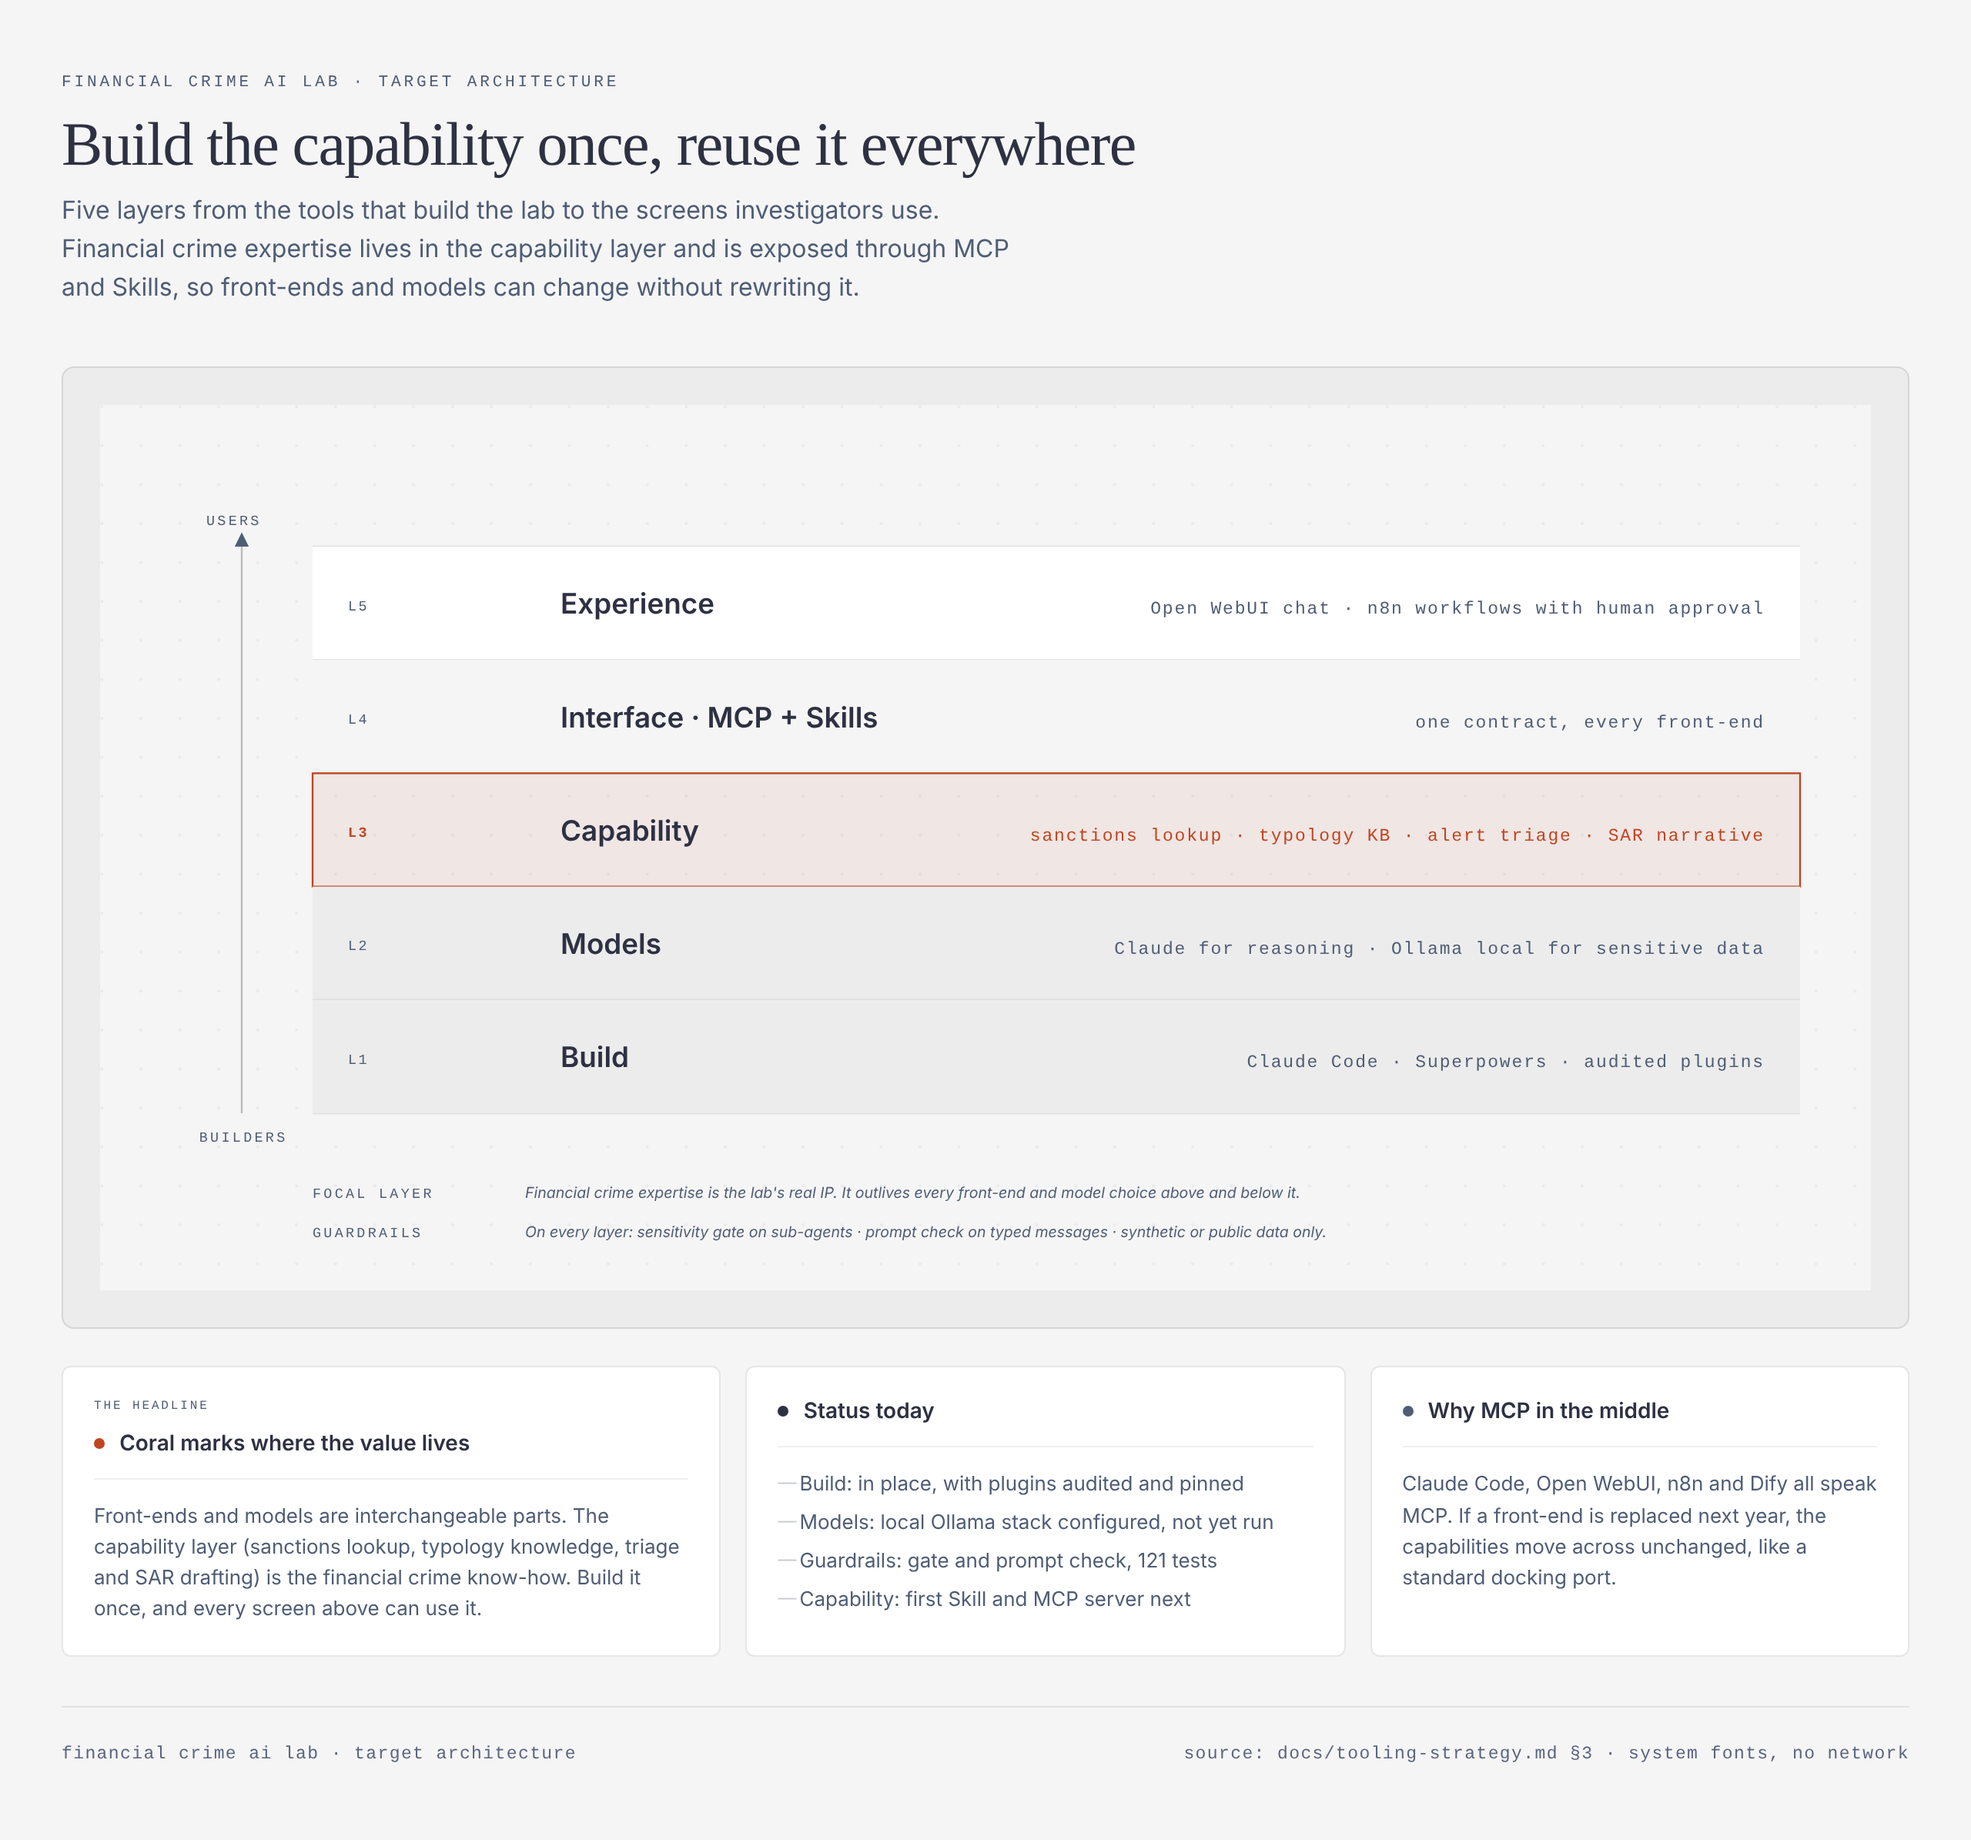
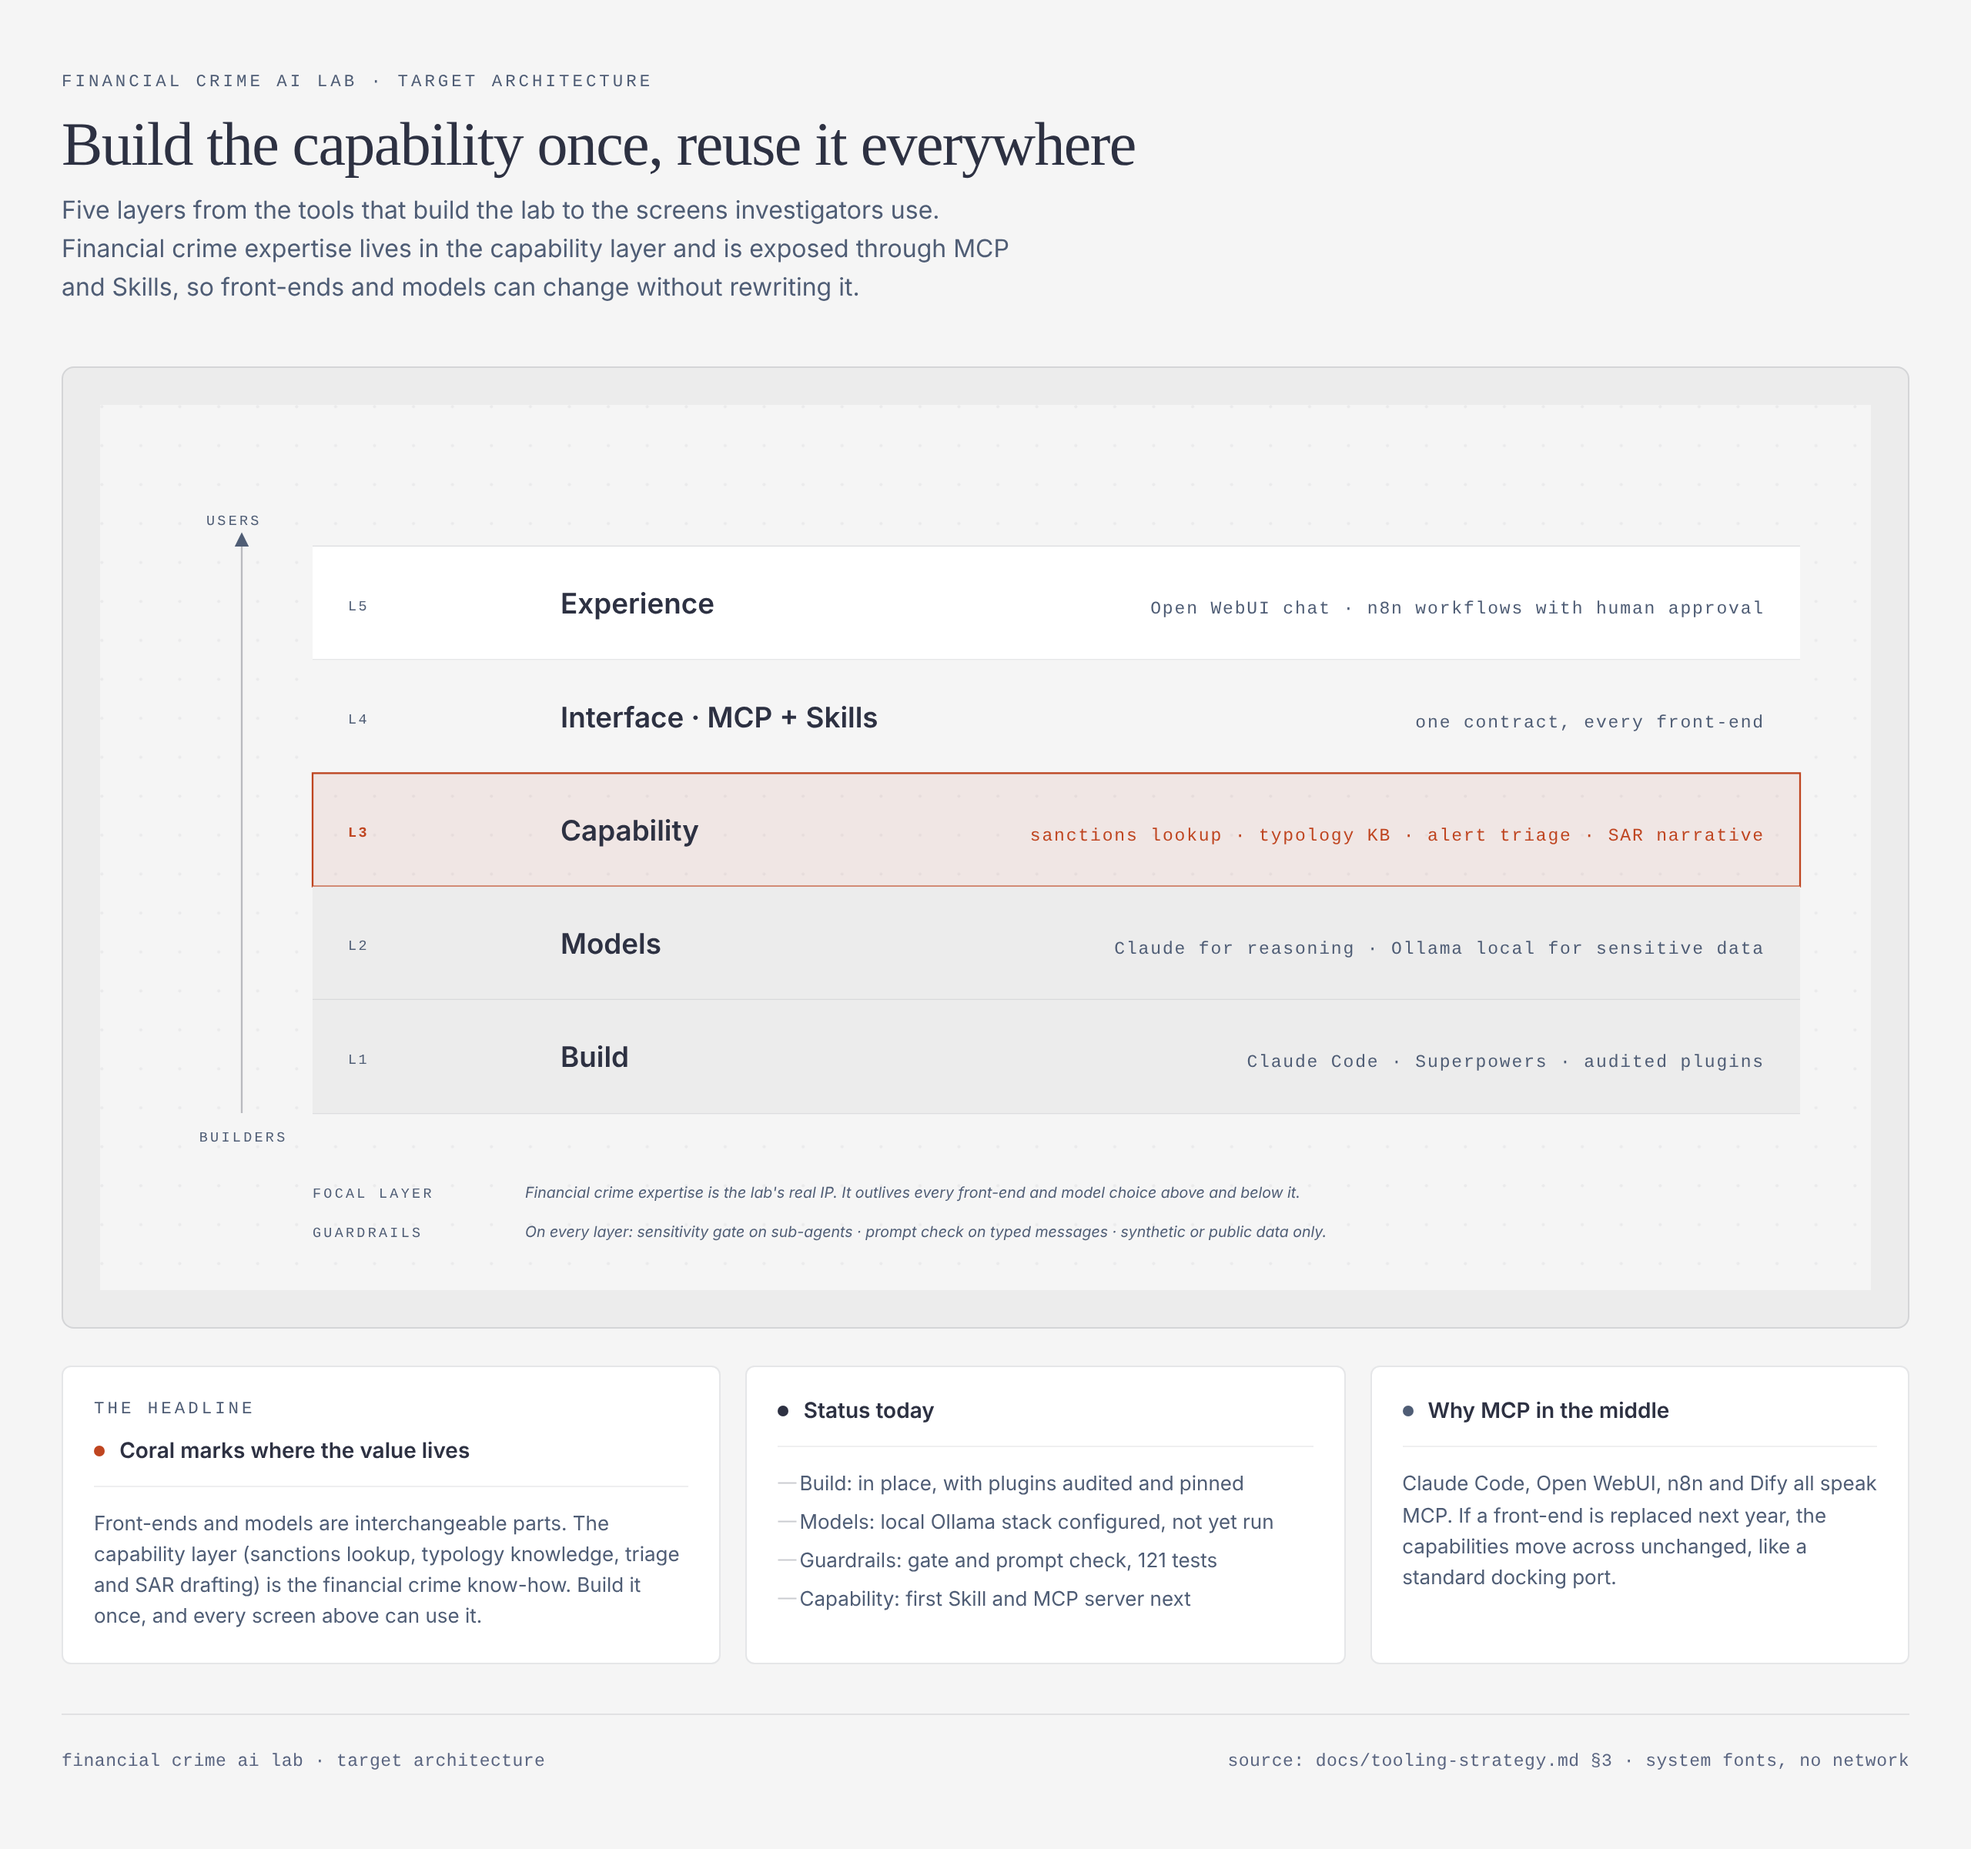
docs: diagram legibility fixes (eyebrow sizes, footer tracking)
Claude-Session: https://claude.ai/code/session_01NNM8qzUoJqWS76ae25NDKc

diff --git a/docs/diagrams/lab-architecture-layers.html b/docs/diagrams/lab-architecture-layers.html
@@ -11,7 +11,7 @@
     body { font-family: var(--font-sans); background: var(--color-paper); min-height: 100vh; padding: 3rem 2rem; color: var(--color-ink); }
     .container { max-width: 1200px; margin: 0 auto; }
     .header { margin-bottom: 2.5rem; }
-    .header-eyebrow { font-family: var(--font-mono); font-size: 0.66rem; font-weight: 500; letter-spacing: 0.18em; text-transform: uppercase; color: var(--color-muted); margin-bottom: 0.75rem; }
+    .header-eyebrow { font-family: var(--font-mono); font-size: 0.7rem; font-weight: 500; letter-spacing: 0.18em; text-transform: uppercase; color: var(--color-muted); margin-bottom: 0.75rem; }
     h1 { font-family: var(--font-serif); font-size: clamp(1.75rem, 3vw + 1rem, 2.5rem); font-weight: 400; letter-spacing: -0.02em; line-height: 1.1; margin-bottom: 0.5rem; }
     .subtitle { font-size: 1rem; line-height: 1.55; color: var(--color-muted); max-width: 62ch; }
     .diagram-container { background: var(--color-paper-2); border-radius: 8px; border: 1px solid var(--color-rule); padding: 1.5rem; overflow-x: auto; }
@@ -19,7 +19,7 @@
     .cards { display: grid; grid-template-columns: 1.1fr 1fr 0.9fr; gap: 1rem; margin-top: 1.5rem; }
     @media (max-width: 820px) { .cards { grid-template-columns: 1fr; } }
     .card { background: #fff; border-radius: 6px; border: 1px solid var(--color-rule); padding: 1.25rem; }
-    .card .eyebrow { font-family: var(--font-mono); font-size: 0.5rem; letter-spacing: 0.18em; text-transform: uppercase; color: var(--color-muted); margin-bottom: 0.5rem; }
+    .card .eyebrow { font-family: var(--font-mono); font-size: 0.7rem; letter-spacing: 0.18em; text-transform: uppercase; color: var(--color-muted); margin-bottom: 0.5rem; }
     .card-header { display: flex; align-items: center; gap: 0.6rem; margin-bottom: 0.875rem; padding-bottom: 0.875rem; border-bottom: 1px solid rgba(45,49,66,0.08); }
     .card-dot { width: 7px; height: 7px; border-radius: 50%; }
     .card-dot.ink { background: var(--color-ink); } .card-dot.muted { background: var(--color-muted); } .card-dot.coral { background: var(--color-accent); }
@@ -27,7 +27,7 @@
     .card p, .card ul { color: var(--color-muted); font-size: 0.8125rem; line-height: 1.55; list-style: none; }
     .card li { margin-bottom: 0.3rem; padding-left: 0.875rem; position: relative; }
     .card li::before { content: '—'; position: absolute; left: 0; color: rgba(45,49,66,0.25); font-size: 0.75rem; }
-    .footer { margin-top: 2rem; padding-top: 1.5rem; border-top: 1px solid rgba(45,49,66,0.10); font-family: var(--font-mono); font-size: 0.72rem; letter-spacing: 0.06em; color: var(--color-soft); display: flex; justify-content: space-between; flex-wrap: wrap; gap: 0.5rem; }
+    .footer { margin-top: 2rem; padding-top: 1.5rem; border-top: 1px solid rgba(45,49,66,0.10); font-family: var(--font-mono); font-size: 0.72rem; letter-spacing: 0.02em; color: var(--color-soft); display: flex; justify-content: space-between; flex-wrap: wrap; gap: 0.5rem; }
   </style>
 </head>
 <body>
